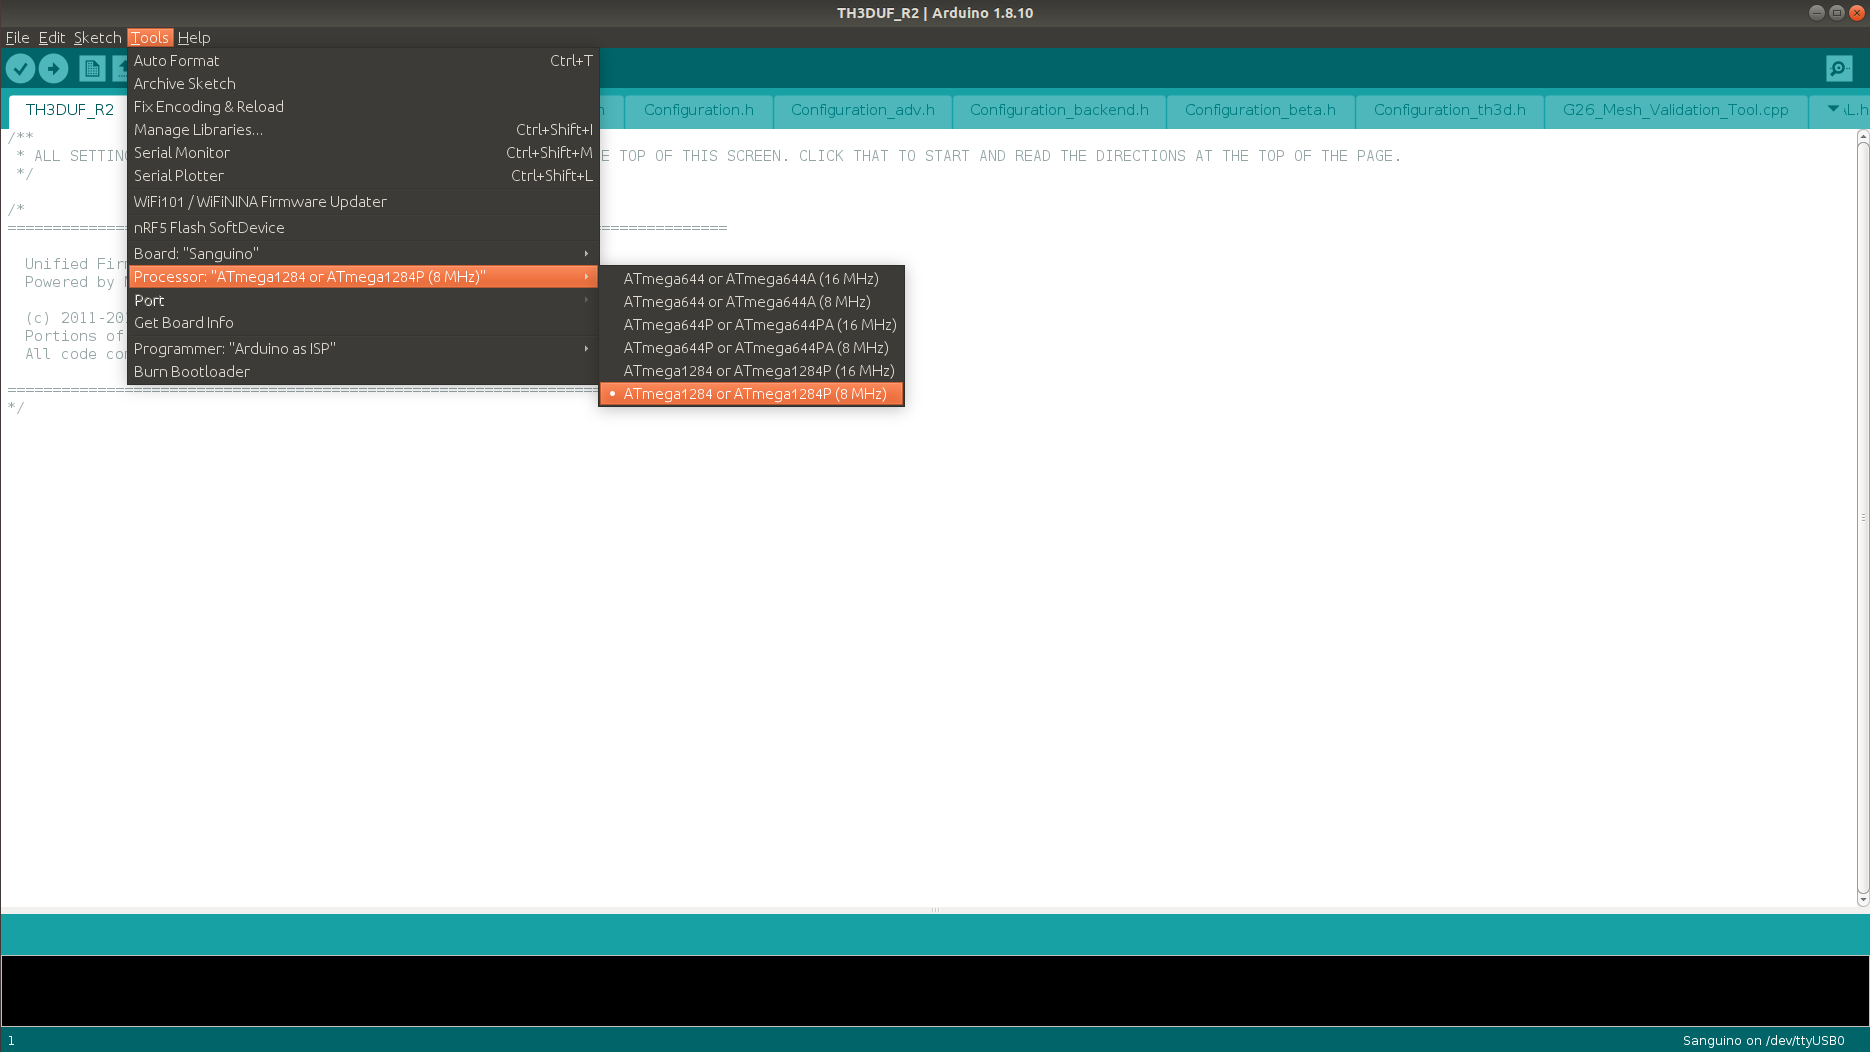
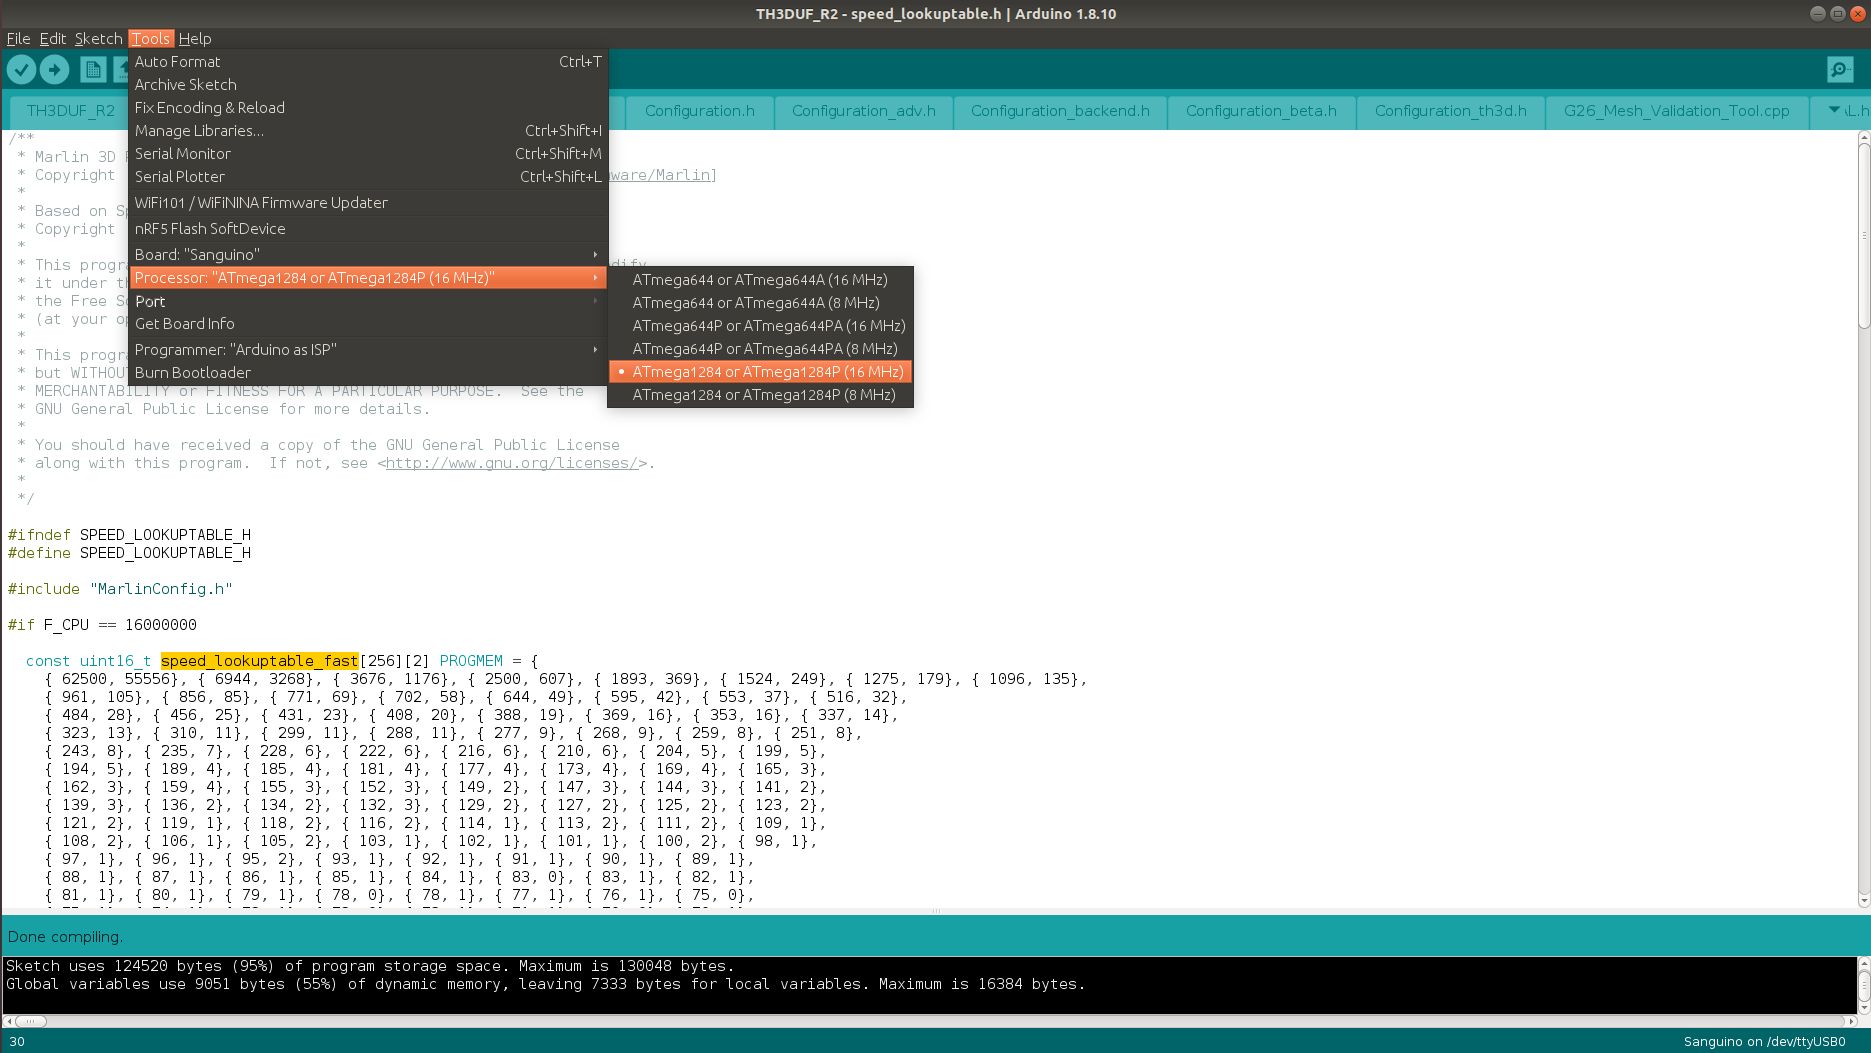
Fix incorrect board frequency

diff --git a/Firmware/README.md b/Firmware/README.md
@@ -35,7 +35,7 @@ Select `Tools -> Board... -> Sanguino`
 
 ![Select processor](Images/img-8.png)
 
-Select `ATmega1284 or ATmega1284P (8 MHz)`
+Select `ATmega1284 or ATmega1284P (16 MHz)`
 
 ### Install U8glib library
 ![Select manage libraries](Images/img-9.png)
